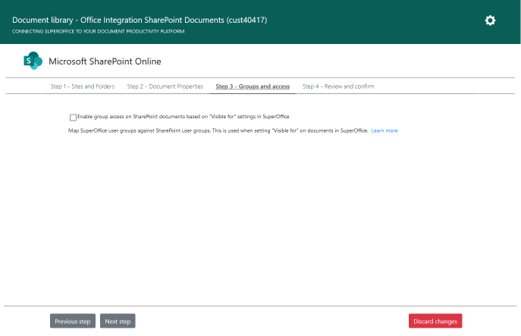
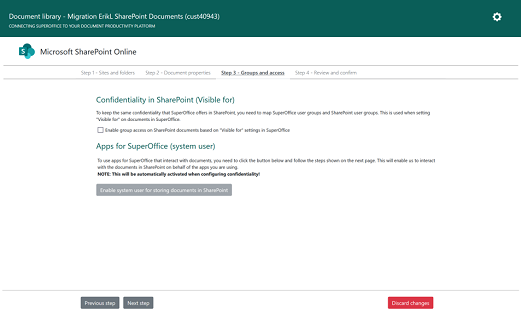
#477 Add system usewr info

Changed region(s): [[0.0, 0.0, 1.0, 0.4286], [0.0, 0.8857, 0.9827, 1.0], [0.1843, 0.4571, 0.8292, 0.6286]]

diff --git a/docs/document/cloud/sharepoint-documents/configure-superoffice.md b/docs/document/cloud/sharepoint-documents/configure-superoffice.md
@@ -77,7 +77,14 @@ We recommend that you select all here. These fields will appear as columns in yo
 ### Group access on SharePoint documents based on Visible for settings
 
 * If you plan not to use Visible for, you leave this ticked off.
-* If you plan to use Visible for, you tick this on – and follow the next steps.
+* If you plan to use Visible for, you tick this on – and follow the next steps.
+
+### Apps for SuperOffice (system user)
+
+Enable system user for storing documents in SharePoint. If you have for instance a third-party app that creates documents in SuperOffice, you need to Enable system user for storing documents in SharePoint.
+
+> [!NOTE]
+> You cannot turn this on the first time you configure SharePoint documents, it must be fully configured. Complete the configuration and start the Wizard (Settings), navigate to Step 3 and turn it on.
 
     ![Groups and access -screenshot][img4]
 
